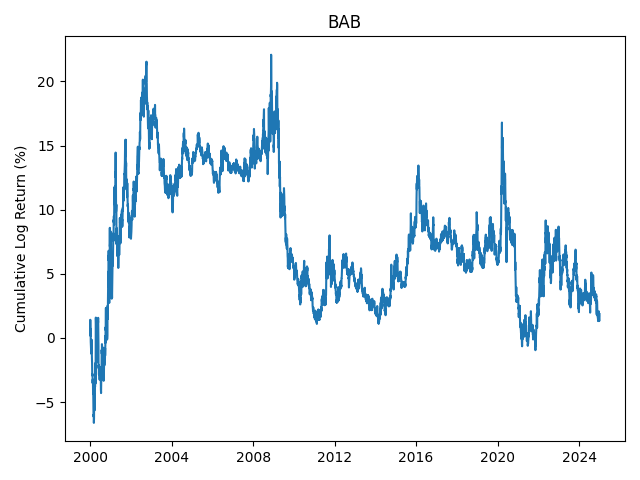
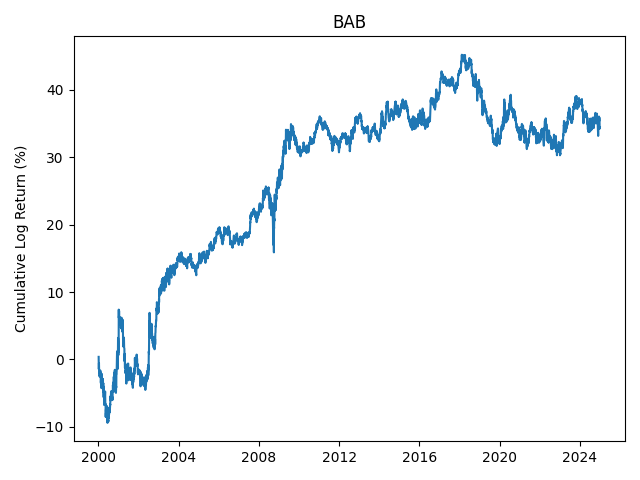
Fixed quantile returns.

diff --git a/signals/quantile_returns.py b/signals/quantile_returns.py
@@ -13,6 +13,10 @@ def compute_quantile_returns(signal_expr: pl.Expr, start: dt.date, end: dt.date)
         .with_columns(
             signal=signal_expr
         )
+        .with_columns(
+            pl.col('signal').shift(1).over('barrid'),
+            pl.col('price').shift(1).over('barrid')
+        )
     )
 
     filtered = (
@@ -20,7 +24,7 @@ def compute_quantile_returns(signal_expr: pl.Expr, start: dt.date, end: dt.date)
         .sort('date', 'barrid')
         .filter(
             pl.col('signal').is_not_null(),
-            pl.col('price').shift(1).over('barrid').gt(5)
+            pl.col('price').gt(5)
         )
         .sort('date', 'barrid')
     )
@@ -42,10 +46,10 @@ def compute_quantile_returns(signal_expr: pl.Expr, start: dt.date, end: dt.date)
         bins
         .group_by('date', 'bin')
         .agg(
-            pl.col('return').mean()
+            pl.col('specific_return').mean()
         )
         .sort('date', 'bin')
-        .pivot(index='date', on='bin', values='return')
+        .pivot(index='date', on='bin', values='specific_return')
         .with_columns(
             pl.col(top_bin).sub(pl.col('0')).alias('spread')
         )
